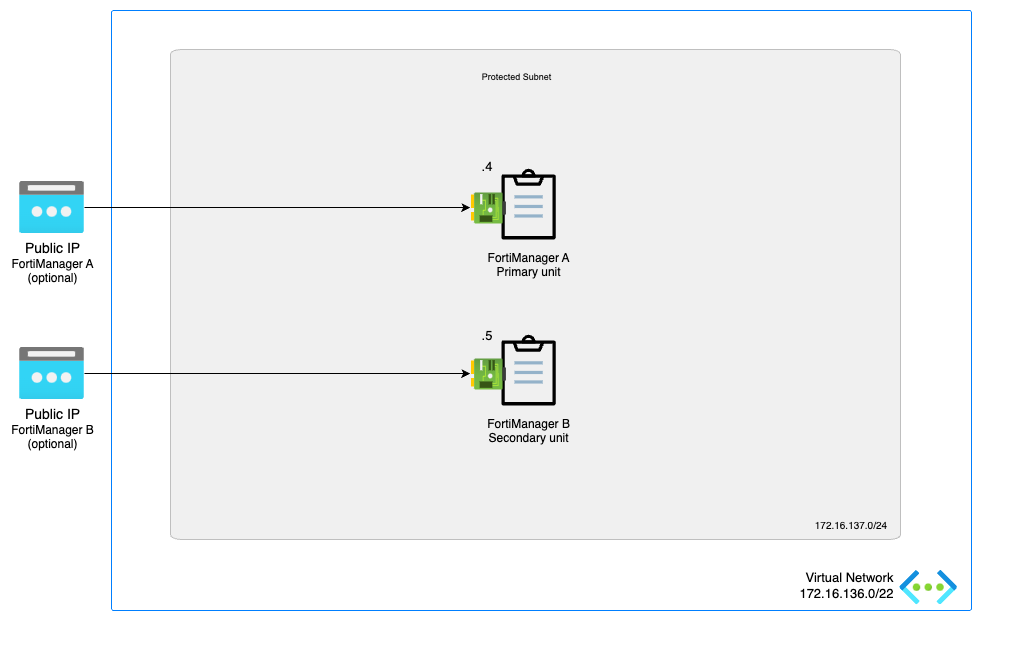
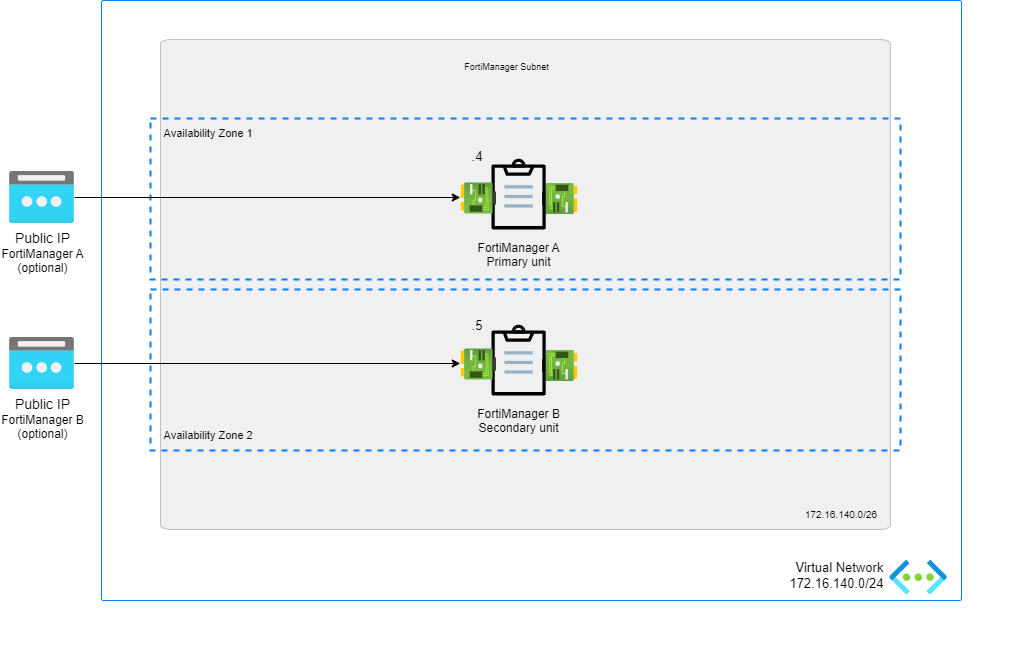
update image

diff --git a/FMG/ha/README.md b/FMG/ha/README.md
@@ -17,7 +17,7 @@ This Azure ARM template will automatically deploy a full working environment con
 - Standard public IPs depending on deployment scenarios:
 
 	* Manual Failover: 2 optional Public IPs	
-	* VRRP Automatic Failover with Public IP Attached to Secondary Private IP Address: 2 optional Public IPs and one mandatory Public IP	
+	* VRRP Automatic Failover with Public IP Attached to Secondary Private IP Address: 2 optional Public IPs and one mandatory HA Public IP	
 	* VRRP Automatic Failover Using Secondary Private IP Address: 2 optional Public IPs
 	
 To enhance the availability of the solution VM can be installed in different Availability Zones instead of an Availability Set. The availability zone is the default option in the template. If Availability Zones deployment is selected but the location does not support Availability Zones an Availability Set will be deployed. If Availability Zones deployment is selected and Availability Zones are available in the location, FortiManager A will be placed in Zone 1, FortiManager B will be placed in Zone 2.
